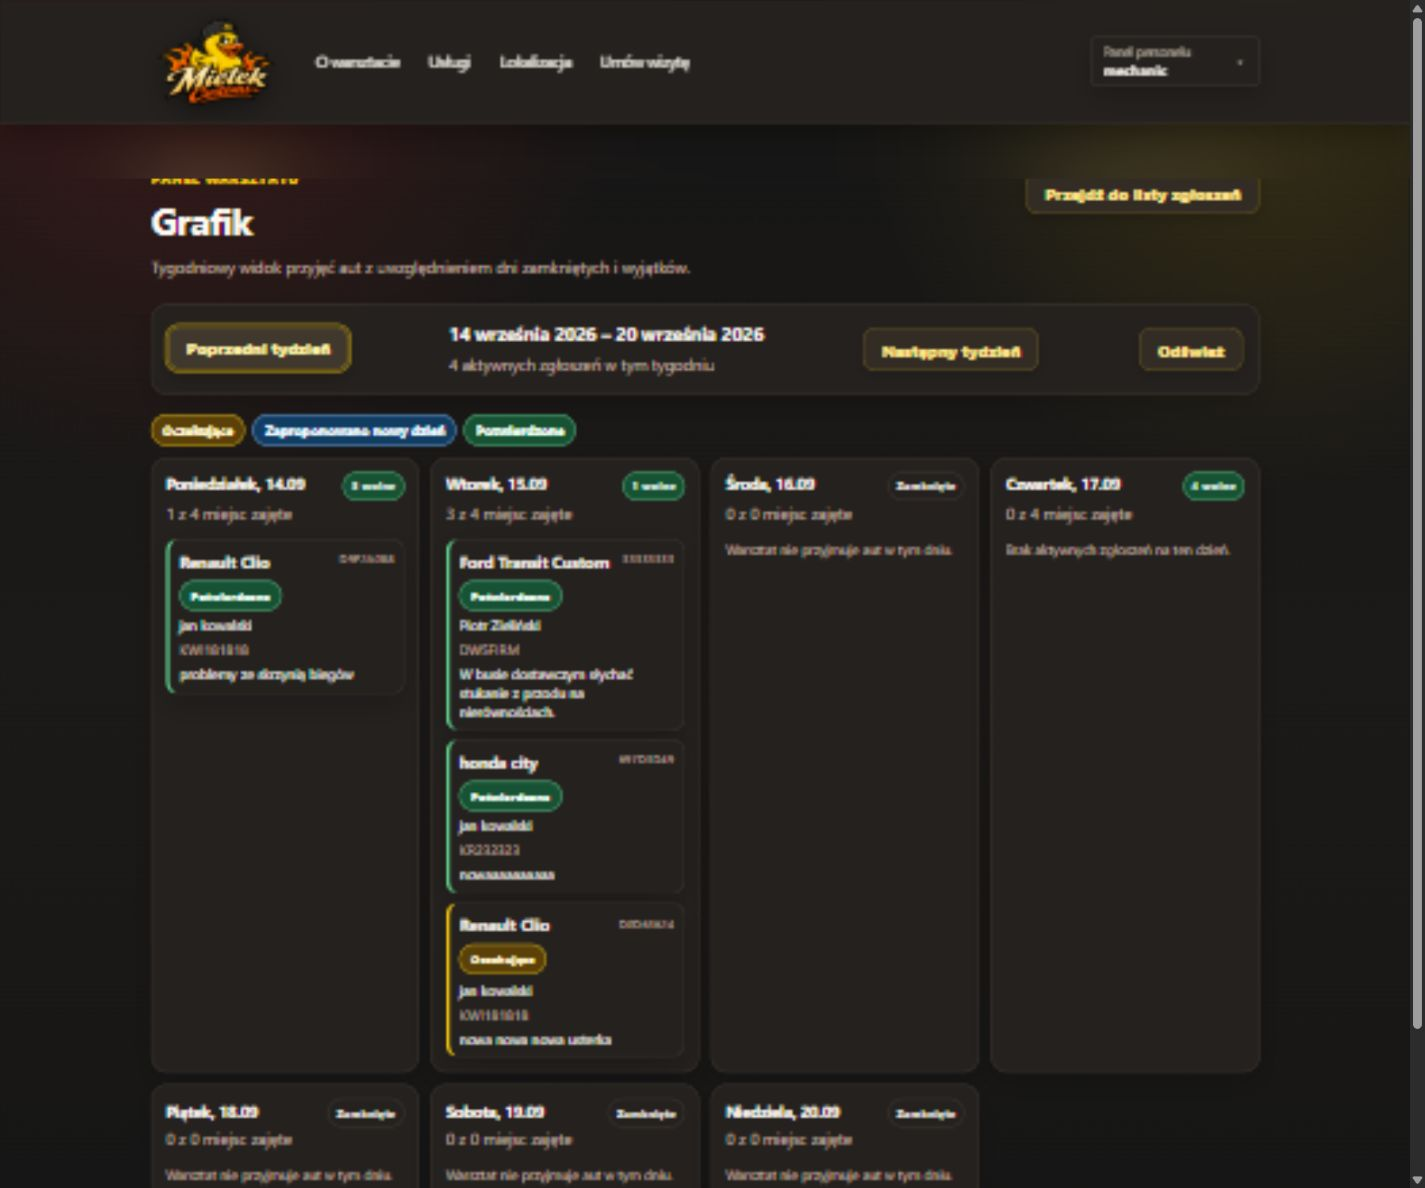
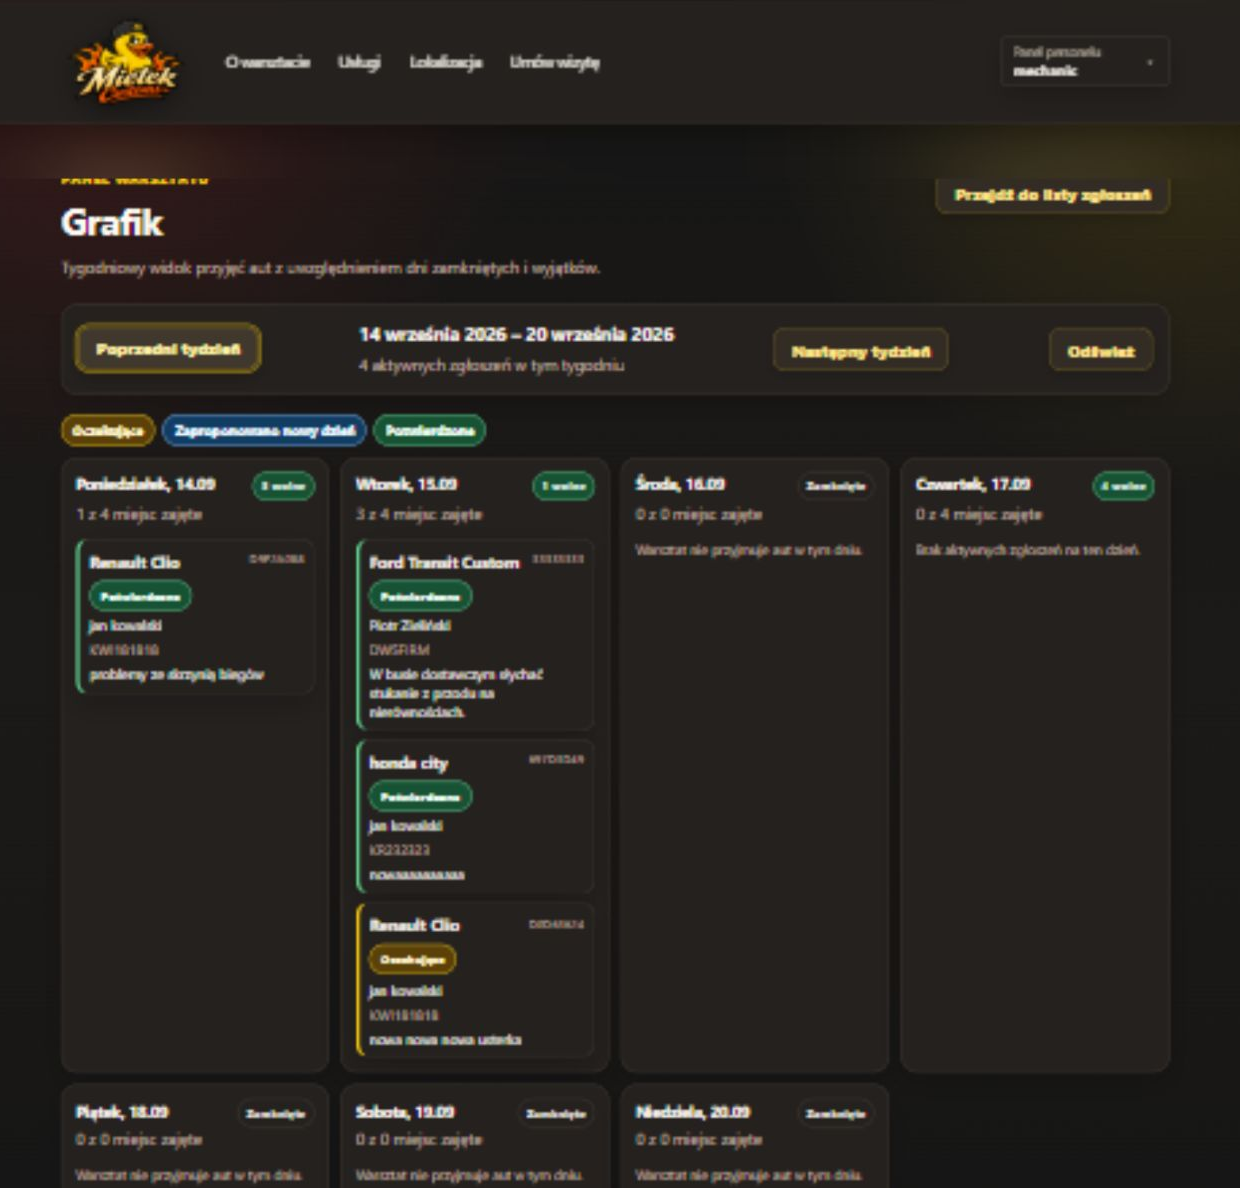
docs: translate README and improve portfolio screenshots

diff --git a/README.md b/README.md
@@ -1,190 +1,203 @@
-# Mietek Customs — system obsługi warsztatu samochodowego
+# Mietek Customs — Car Workshop Management System
 
 <p align="center">
-  <img src="frontend/src/assets/branding/mietek-customs-logo.png" alt="Logo warsztatu Mietek Customs" width="240">
+  <img src="frontend/src/assets/branding/mietek-customs-logo.png" alt="Mietek Customs workshop logo" width="240">
 </p>
 
-Pełnostackowa aplikacja portfolio do obsługi warsztatu samochodowego. Klient może
-zarządzać pojazdami i umawiać wizyty, mechanik prowadzi naprawę od przyjęcia auta
-do odbioru, a administrator konfiguruje grafik i zarządza kontami użytkowników.
+A full-stack portfolio application for managing a car workshop. Customers can manage
+their vehicles and request appointments, mechanics handle repairs from acceptance to
+pickup, and administrators configure workshop availability and user accounts.
 
-Projekt pokazuje praktyczne użycie Spring Boota, relacyjnej bazy danych,
-bezpieczeństwa sesyjnego, transakcji, testów integracyjnych oraz Reacta z TypeScriptem.
+The project demonstrates practical use of Spring Boot, a relational database, session
+security, transactional concurrency control, integration testing, and React with
+TypeScript. The application interface is in Polish, while source code and API messages
+use English naming.
 
-**Na skróty:** [Funkcje](#funkcje) · [Przepływ aplikacji](#jak-działa-aplikacja) ·
-[Technologie](#technologie) · [Architektura](#architektura) ·
-[Uruchomienie](#uruchomienie) · [Konta demo](#konta-demonstracyjne) ·
-[Wdrożenie](#wariant-wdrożeniowy) · [Decyzje i ograniczenia](#decyzje-i-ograniczenia) ·
-[Dokumentacja](#dokumentacja)
+**Quick navigation:** [Features](#features) · [Application flow](#application-flow) ·
+[Technology stack](#technology-stack) · [Architecture](#architecture) ·
+[Getting started](#getting-started) · [Demo accounts](#demo-accounts) ·
+[Deployment](#production-deployment) · [Decisions and limitations](#decisions-and-limitations) ·
+[Documentation](#documentation)
 
-## Funkcje
+## Features
 
-| Rola | Możliwości |
+| Role | Capabilities |
 | --- | --- |
-| Klient | Profil prywatny lub firmowy, własne pojazdy, rezerwacje, historia napraw i faktury PDF |
-| Gość | Zgłoszenie wizyty bez zakładania konta |
-| Mechanik | Tygodniowy grafik, obsługa zgłoszeń, robocizna i części, zakończenie naprawy i odbiór auta |
-| Administrator | Funkcje mechanika, konfiguracja grafiku oraz zarządzanie kontami klientów i personelu |
+| Customer | Personal or company profile, owned vehicles, appointment requests, repair history, and PDF invoices |
+| Guest | Appointment request without creating an account |
+| Mechanic | Weekly schedule, request handling, labor and parts, repair completion, and vehicle pickup |
+| Administrator | Mechanic capabilities, schedule configuration, and customer/staff account management |
 
-Dodatkowo aplikacja udostępnia publiczny katalog usług warsztatu zarządzany przez
-mechanika lub administratora.
+The application also provides a public workshop service catalog managed by mechanics
+and administrators.
 
-## Jak działa aplikacja?
+## Application flow
 
-Przykładowy scenariusz: klient zgłasza problem z hamulcami, warsztat przyjmuje auto,
-wykonuje naprawę, a po odbiorze klient otrzymuje wpis w historii pojazdu i fakturę PDF.
-Zrzuty przedstawiają dane demonstracyjne przygotowane przez profil `local`.
+Example scenario: a customer reports a braking problem, the workshop accepts the car,
+performs the repair, and records the pickup. The completed repair appears in the vehicle
+history with a downloadable PDF invoice. The screenshots use records prepared by the
+local demo-data profile.
 
-**Zgłoszenie → potwierdzenie → naprawa → odbiór i faktura**
+**Request → confirmation → repair → pickup and invoice**
 
-### 1. Klient zgłasza wizytę
+### 1. Customer requests an appointment
 
-Klient wybiera własny pojazd, dostępny dzień przyjęcia auta i opisuje usterkę.
-Zgłoszenie otrzymuje status „Oczekuje na decyzję” (`PENDING`). Backend ponownie
-sprawdza dostępność dnia podczas zapisu, aby nie przekroczyć limitu przyjęć.
+The customer selects an owned vehicle, an available drop-off day, and describes the
+problem. The request receives the `PENDING` status. The backend validates availability
+again inside the write transaction to prevent the daily capacity from being exceeded.
 
-![Zgłoszenie wizyty przez klienta](docs/screenshots/booking-request.png)
+![Customer appointment request](docs/screenshots/booking-request.png)
 
-### 2. Mechanik potwierdza termin
+### 2. Workshop reviews the requested date
 
-Mechanik widzi zgłoszenie w grafiku i otwiera jego szczegóły. Może je potwierdzić
-(`CONFIRMED`), odrzucić albo zaproponować inny dzień. Propozycję nowego dnia
-zalogowany klient zatwierdza w zakładce „Moje wizyty”.
+The mechanic sees active requests on the weekly schedule. Staff can confirm or reject a
+request, or propose another available day. A logged-in customer accepts the proposed day
+from the “My appointments” page.
 
-![Zgłoszenia w grafiku mechanika](docs/screenshots/03-staff-schedule.png)
+![Mechanic weekly schedule](docs/screenshots/03-staff-schedule.png)
 
-### 3. Warsztat zapisuje wykonaną naprawę
+### 3. Mechanic records the completed repair
 
-Mechanik wpisuje opis wykonanych prac oraz pozycje robocizny i części. Backend
-wylicza kwotę naprawy, a zgłoszenie przechodzi do „Czeka na odbiór” (`READY_FOR_PICKUP`).
-Klient widzi podsumowanie prac i kwotę do zapłaty na miejscu.
+The mechanic enters a work summary and separate labor and part items. The backend
+calculates the final gross amount and moves the request to `READY_FOR_PICKUP`. Payment is
+handled at the workshop outside the application.
 
-![Zapis wykonanych prac i części](docs/screenshots/repair-completion.png)
+![Repair completion form with labor and parts](docs/screenshots/repair-completion.png)
 
-### 4. Klient odbiera auto i pobiera fakturę
+### 4. Customer picks up the vehicle and downloads the invoice
 
-Personel oznacza samochód jako odebrany (`COMPLETED`). Naprawa pojawia się w historii
-pojazdu, skąd klient pobiera fakturę PDF z pozycjami oraz wartościami netto i brutto.
-Dokument jest zapisany przy odbiorze i zachowuje dane mimo późniejszej edycji profilu.
-Dane nabywcy są imienne lub firmowe, zależnie od uzupełnionego profilu.
+Staff marks the vehicle as picked up, changing the status to `COMPLETED`. The repair then
+appears in the vehicle history. The invoice snapshot and generated PDF are persisted, so
+later profile, logo, or pricing changes do not modify an issued document.
 
-![Faktura PDF za zakończoną naprawę](docs/screenshots/06-invoice-preview.png)
+![PDF invoice for a completed repair](docs/screenshots/06-invoice-preview.png)
 
-## Technologie
+## Technology stack
 
 - **Backend:** Java 25, Spring Boot 4.1.1, Spring MVC, Spring Data JPA, Spring Security
-- **Baza danych:** PostgreSQL 17, Hibernate, Flyway
+- **Database:** PostgreSQL 17, Hibernate, Flyway
 - **Frontend:** React 19.2.8, TypeScript 6.0.2, Vite 8.2.2, React Router 7.18.3
-- **Testy:** JUnit 5, MockMvc, AssertJ, Testcontainers
-- **Narzędzia:** Maven, Docker Compose, GitHub Actions, springdoc-openapi 3.1.1, OpenPDF 2.4.0
+- **Testing:** JUnit/Jupiter, MockMvc, AssertJ, Testcontainers, Vitest, React Testing Library
+- **Tooling:** Maven, Docker Compose, GitHub Actions, springdoc-openapi 3.1.1, OpenPDF 2.4.0
 
-## Architektura
+## Architecture
 
 ```mermaid
 flowchart LR
-    U[Przeglądarka] --> R[React + TypeScript]
-    R -->|REST /api, sesja i CSRF| C[Spring MVC]
-    C --> S[Serwisy i reguły biznesowe]
+    U[Browser] --> R[React + TypeScript]
+    R -->|REST /api, session and CSRF| C[Spring MVC]
+    C --> S[Application services and business rules]
     S --> J[Spring Data JPA]
     J --> P[(PostgreSQL)]
-    S --> F[Generator faktur PDF]
-    M[Flyway] --> P
+    S --> F[PDF invoice generator]
+    M[Flyway migrations] --> P
 ```
 
-Backend jest monolitem podzielonym na pakiety funkcjonalne. Uwierzytelnianie
-korzysta z sesji Spring Security i ciasteczka HttpOnly, a operacje zmieniające dane
-wymagają tokenu CSRF.
+The backend is a modular monolith organized by business capability. Spring Security uses
+server-side sessions with HttpOnly cookies, while state-changing requests require CSRF
+protection.
 
-## Najciekawsze elementy techniczne
+## Key technical highlights
 
-- Właściciel profilu, pojazdu i zgłoszenia wynika z uwierzytelnionej sesji.
-- Role `CLIENT`, `MECHANIC` i `ADMIN` są egzekwowane przez backend.
-- Transakcyjne blokady chronią limit przyjęć przed równoczesnymi rezerwacjami i zmianami konfiguracji grafiku.
-- Listy wizyt i kont mają backendową paginację, filtrowanie i sortowanie.
-- Flyway wersjonuje bazę, a profil `local` idempotentnie tworzy dane demonstracyjne.
-- Faktura PDF zawiera pozycje robocizny i części oraz wartości netto i brutto.
-- API używa wspólnego formatu błędów ze stabilnymi kodami technicznymi.
-- Testy integracyjne korzystają z odizolowanego PostgreSQL przez Testcontainers.
+- Profile, vehicle, appointment, and document ownership is derived from the authenticated
+  account ID rather than identifiers supplied by the browser.
+- `CLIENT`, `MECHANIC`, and `ADMIN` permissions are enforced by the backend.
+- Transactional PostgreSQL locks protect appointment capacity against concurrent bookings
+  and schedule-configuration changes.
+- Appointment and account lists provide backend pagination, filtering, and sorting.
+- Flyway versions the database schema; the `local` profile creates demo data idempotently.
+- Repair items use `BigDecimal`; invoice totals are calculated per line as net, VAT, and gross.
+- Issued invoice data and the generated PDF are persisted as an immutable snapshot.
+- The API exposes a consistent error format with stable technical error codes.
+- Integration tests run against an isolated PostgreSQL instance through Testcontainers.
 
-## Decyzje i ograniczenia
+## Decisions and limitations
 
-Projekt jest modularnym monolitem. Sesje Spring Security z CSRF pasują do jednej
-aplikacji webowej i nie wymagają JWT. Backend pozostaje źródłem prawdy dla uprawnień,
-pojemności grafiku, kwot oraz utrwalonych danych faktury. Rezerwacja dotyczy dnia,
-a blokady transakcyjne chronią limit przy równoczesnych żądaniach.
+The project uses a modular monolith because the current scope does not justify the
+operational cost of microservices. Session-based Spring Security with CSRF matches a
+single web application and avoids introducing JWT without a concrete requirement. The
+backend remains the source of truth for authorization, schedule capacity, repair totals,
+and persisted invoice data.
 
-Repozytorium zawiera wariant wdrożeniowy z automatycznym HTTPS, ale nie utrzymuje
-publicznej instancji ani domeny. Aplikacja nie obejmuje płatności online, korekt księgowych, powiadomień e-mail/SMS,
-automatycznego odzyskiwania hasła ani przydzielania zleceń do konkretnych mechaników.
-Publiczny formularz nie ma jeszcze limitowania nadużyć. Faktury są dokumentami
-demonstracyjnymi, a dane sprzedawcy i lokalizacja warsztatu są przykładowe.
+The repository contains a production-oriented deployment variant, but no public instance
+or domain is maintained. The application does not include online payments, accounting
+corrections, e-mail/SMS notifications, automatic password recovery, or assignment of jobs
+to individual mechanics. The public booking form does not yet have rate limiting. Invoice
+documents and workshop address data are demonstrational and are not presented as a
+complete legally compliant accounting system.
 
-## Roadmapa
+## Roadmap
 
-Podstawowy zakres portfolio jest domknięty. Dalszy rozwój może objąć ochronę
-publicznych formularzy, powiadomienia, obserwowalność oraz rozbudowę planowania pracy warsztatu. Pełna
-księgowość i płatności pozostają osobnymi integracjami, a nie częścią obecnej wersji.
+The core portfolio scope is complete. Possible next steps include rate limiting for public
+forms, notification delivery, request tracing and audit logging, and more advanced workshop
+resource planning. Full accounting and online payments would remain separate integrations.
 
-## Uruchomienie
+## Getting started
 
-Wymagany jest Docker Desktop z kontenerami Linux i Docker Compose w wersji co
-najmniej 2.20.3.
+Requirements:
+
+- Docker Desktop using Linux containers
+- Docker Compose 2.20.3 or newer
+
+From the repository root, run:
 
 ```powershell
 docker compose up --build -d --wait
 ```
 
-| Element | Adres |
+| Component | URL |
 | --- | --- |
-| Aplikacja | http://localhost:5173 |
+| Application | http://localhost:5173 |
 | Swagger UI | http://localhost:8080/swagger-ui.html |
-| Stan backendu | http://localhost:8080/api/health |
+| Backend health check | http://localhost:8080/api/health |
 
-Zatrzymanie aplikacji:
+Stop the application while preserving the database volume:
 
 ```powershell
 docker compose down
 ```
 
-## Wariant wdrożeniowy
+## Production deployment
 
-Osobny plik `compose.production.yaml` buduje statyczny frontend i serwuje go przez
-Nginx. Caddy jest publicznym reverse proxy i automatycznie obsługuje HTTPS dla
-prawidłowo skonfigurowanej domeny. Profil `production` nie tworzy danych demo,
-wyłącza Swaggera i wymaga pierwszego administratora przekazanego przez środowisko.
+`compose.production.yaml` builds a static React frontend served by Nginx. Caddy acts as
+the public reverse proxy and automatically configures HTTPS for a valid domain. The
+`production` Spring profile does not seed demo data, disables Swagger, enables secure
+session-cookie defaults, and creates the first administrator from environment variables.
 
-Konfigurację, przygotowanie domeny i bezpieczny pierwszy start opisuje
-[instrukcja wdrożenia](docs/deployment-guide.md). Plik `.env.production.example`
-jest wyłącznie wzorem — prawdziwy `.env.production` jest ignorowany przez Git.
+Domain configuration, secrets, and the first deployment are described in the
+[deployment guide](docs/deployment-guide.md). `.env.production.example` is only a
+template; the real `.env.production` file is ignored by Git.
 
-## Konta demonstracyjne
+## Demo accounts
 
-Profil Springa `local`, włączony w Docker Compose, przygotowuje następujące konta:
+The `local` Spring profile used by Docker Compose provides these accounts:
 
-| Login | Hasło | Rola |
+| Username | Password | Role |
 | --- | --- | --- |
-| `anna.demo` | `client-local-2026` | Klient z pojazdami, wizytami i fakturą |
-| `firma.demo` | `client-local-2026` | Klient firmowy z fakturą na firmę |
-| `mechanic` | `mechanic-local-2026` | Mechanik |
+| `anna.demo` | `client-local-2026` | Customer with vehicles, appointments, and an invoice |
+| `firma.demo` | `client-local-2026` | Company customer with a company invoice |
+| `mechanic` | `mechanic-local-2026` | Mechanic |
 | `admin` | `admin-local-2026` | Administrator |
 
-Konta i hasła służą wyłącznie do lokalnej prezentacji aplikacji.
+These credentials are intended only for local demonstration.
 
-## Weryfikacja
+## Verification
 
-GitHub Actions przy każdym pushu i pull requeście do `main` wykonuje:
+GitHub Actions runs the following checks for every push and pull request to `main`:
 
-- testy backendu z Testcontainers,
-- testy zachowania frontendu (Vitest i React Testing Library), lint i produkcyjny build,
-- sprawdzenie konfiguracji Docker Compose.
+- backend tests with PostgreSQL Testcontainers,
+- frontend behavior tests, linting, and a production build,
+- validation of the local and production Docker Compose configurations.
 
-Po nieudanym zadaniu CI publikuje raporty testów backendu lub frontendu jako artefakty
-przebiegu. Pełny scenariusz klient → mechanik → faktura i wyniki lokalnej weryfikacji
-opisuje [raport prezentacyjny](docs/portfolio-verification.md).
+The latest documented local verification includes **146 backend tests** and **22 frontend
+tests**, all passing. Failed CI jobs upload backend or frontend test reports as workflow
+artifacts. The full customer → mechanic → invoice scenario is described in the
+[portfolio verification report](docs/portfolio-verification.md).
 
-## Dokumentacja
+## Documentation
 
-Pełne instrukcje uruchamiania, opis modułów, tabela endpointów API oraz materiały
-do nauki znajdują się w [rozszerzonej dokumentacji projektu](docs/README.md).
+Extended setup instructions, module descriptions, API endpoint tables, audit notes, and
+learning materials are available in the [detailed project documentation](docs/README.md)
+(written in Polish).
 
-Swagger UI po uruchomieniu aplikacji: http://localhost:8080/swagger-ui.html
+Swagger UI is available after startup at http://localhost:8080/swagger-ui.html.
